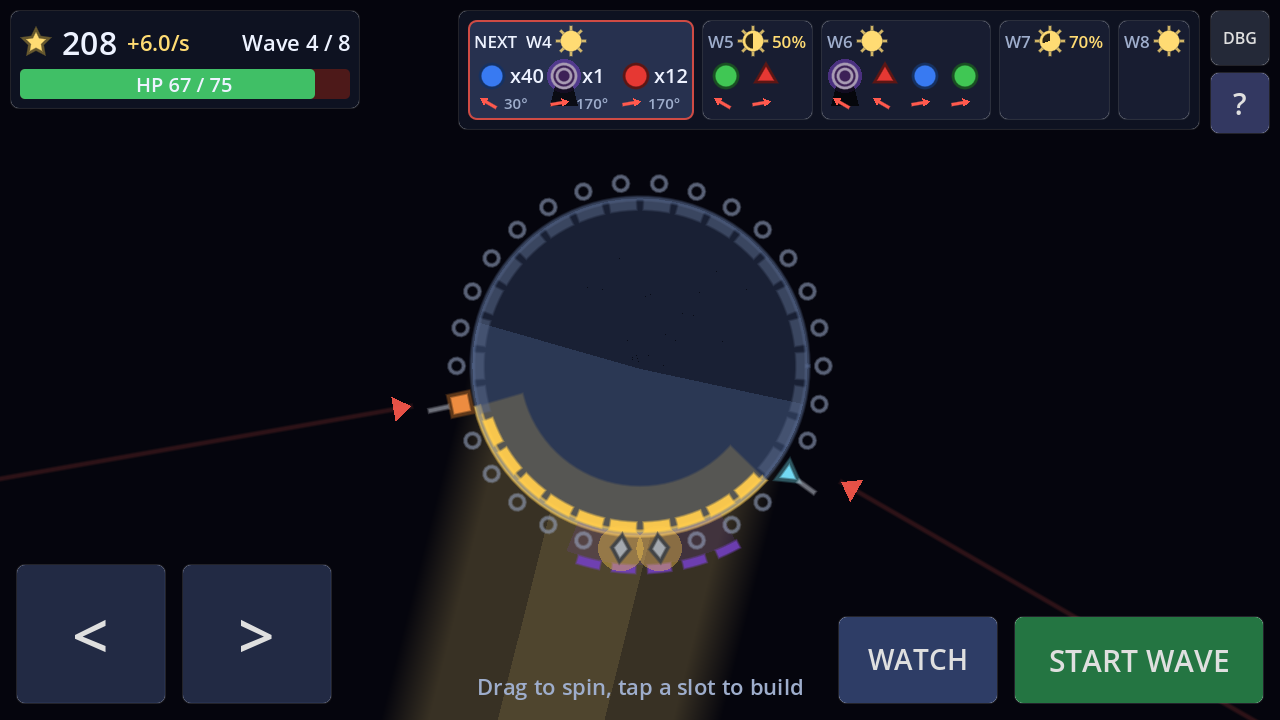
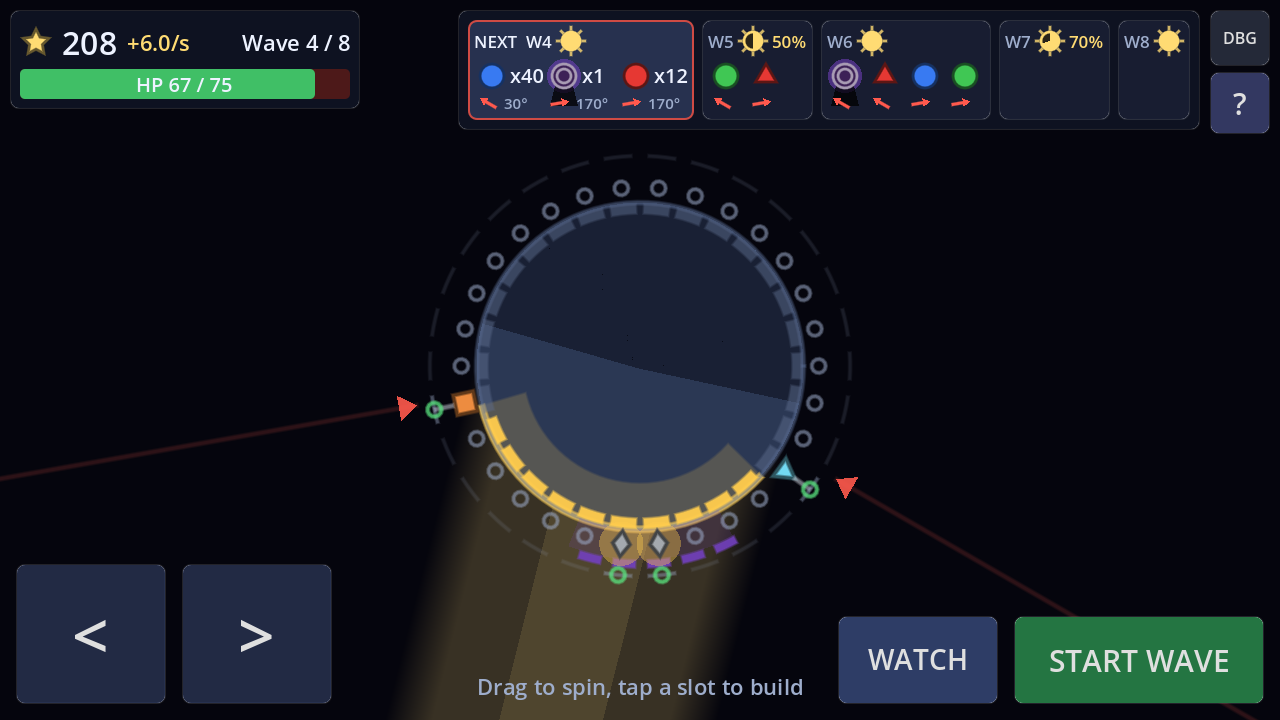
[M2.8] Screenshots retaken on main with M2.1/M2.2; ring fit includes the elevated ring
Claude-Session: https://claude.ai/code/session_01J7xgx3gWMtmHTqJhvq8Bgi

Changed region(s): [[0.2812, 0.2444, 0.6875, 0.825]]

diff --git a/docs/design/DECISIONS.md b/docs/design/DECISIONS.md
@@ -82,7 +82,7 @@ Small choices an agent had to make where the brief was silent. Each is data, not
 | 2026-11-18 | M2.8 | Bot comparison over seeds 1–6: sensible wins 6/6 on every planet; small has the most panel income (2181 vs 1807 medium, 1789 large), medium keeps the most HP (95% vs 72% small, 48% large), large lets towers-only and the sun-chaser survive a wave longer (6 and 4 waves vs 5 and 3). No planet is ≥ on every measure | `core/tests/test_balance.cpp` |
 | 2026-11-18 | M2.8 | Bots choose lane tower slots by angle (within 35° of the lane, at most 6, nearest first) instead of fixed slot indices; on medium these are the M1 lists, so M1 results are unchanged | `core/tests/balance_bots.h` |
 | 2026-11-18 | M2.8 | A planet can host a wave set only if it has the wave set's lane ids in the same order (spawns hold lane indices); otherwise `new_run` reports an error and plays the wave set's planet. The run log stores the planet in the high 16 bits of its wave-set word (0 = default), so old logs replay | `core/content/content_loader.cpp`, `gdextension/src/sim_server.cpp` |
-| 2026-11-18 | M2.8 | Build view fit: the slot ring (radius + 14) takes the same share of the screen height on every planet; on radius 100 the planet is `surfacePlanetFrac` (0.24) as in M1.13 | `game/app/band_controller.gd`, `game/app/client_config.json` |
+| 2026-11-18 | M2.8 | Build view fit: the slot rings, ground and elevated (radius + 30), takes the same share of the screen height on every planet; on radius 100 the planet is `surfacePlanetFrac` (0.24) as in M1.13 | `game/app/band_controller.gd`, `game/app/client_config.json` |
 | 2026-11-13 | M1 sim | Shadows lag one tick: `sunlight` runs before `enemyMovement`, so shade is computed from the casters' positions of the previous tick | `core/sim/pipeline.cpp` |
 | 2026-11-13 | M1 sim | `StardustChanged` from panel income is emitted once per whole unit earned, not every tick | `core/systems/sun.cpp` |
 | 2026-11-13 | M1 sim | The disc is shape id 6 (after circle, triangle, square, hexagon, star, diamond); the client's `BatchRenderer.Shape` uses the same ids | `core/content/content.h`, `game/render/batch_renderer.gd` |
